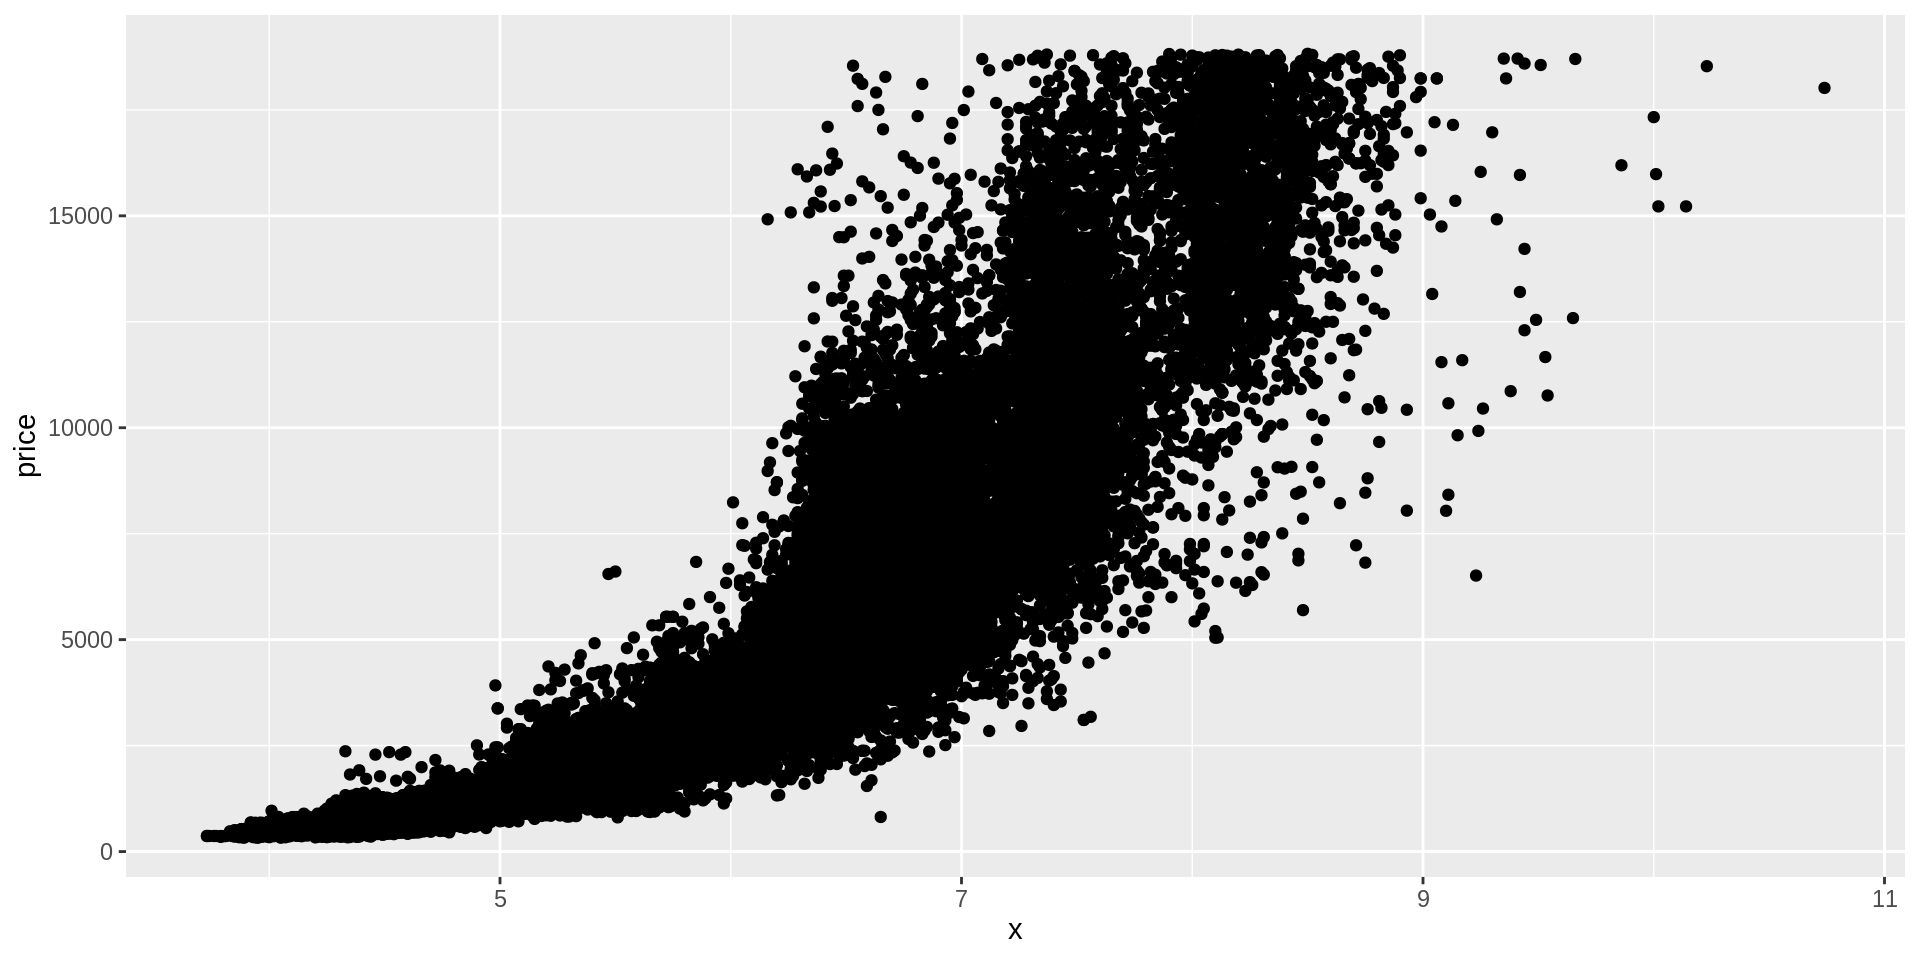
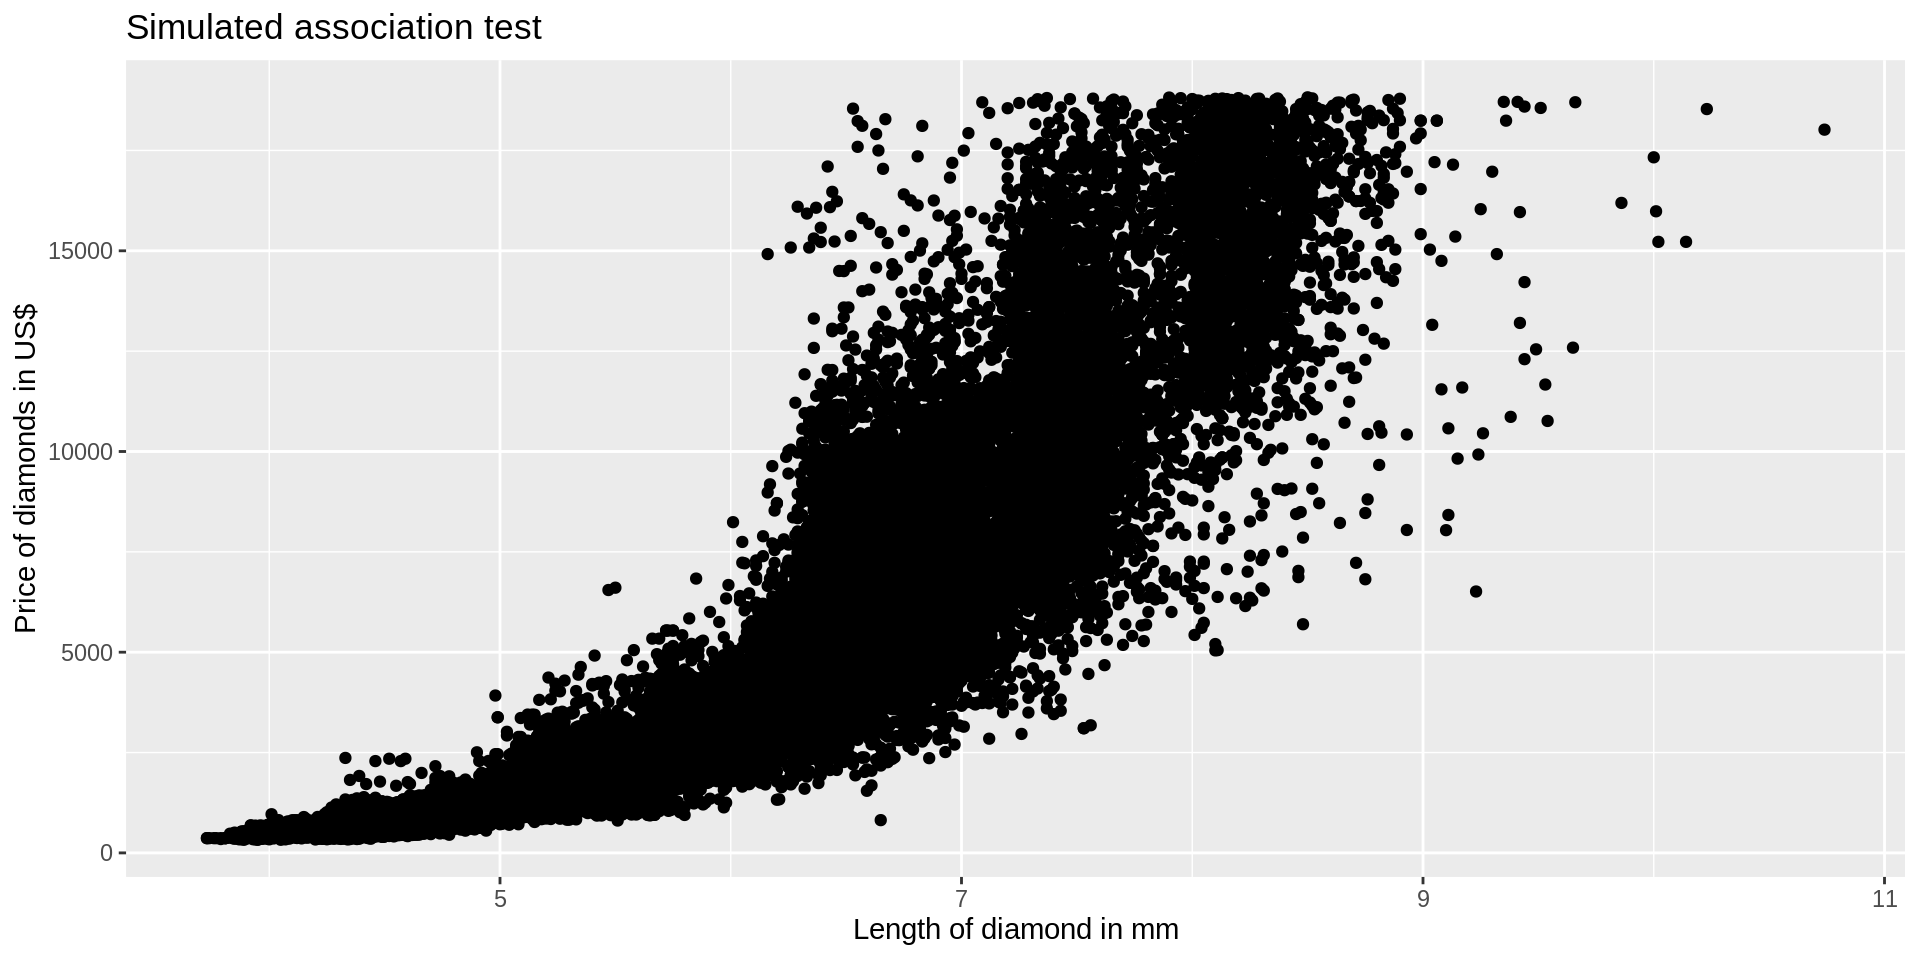
Deploying to gh-pages from @ stats1010-f22/website@56d03d7cbe627913fcf48cd7765b93f8cb9fd4b2 🚀

diff --git a/slides/lect_08.html b/slides/lect_08.html
@@ -27,6 +27,70 @@
       margin: 0 0.8em 0.2em -1.6em;
       vertical-align: middle;
     }
+    pre > code.sourceCode { white-space: pre; position: relative; }
+    pre > code.sourceCode > span { display: inline-block; line-height: 1.25; }
+    pre > code.sourceCode > span:empty { height: 1.2em; }
+    .sourceCode { overflow: visible; }
+    code.sourceCode > span { color: inherit; text-decoration: inherit; }
+    div.sourceCode { margin: 1em 0; }
+    pre.sourceCode { margin: 0; }
+    @media screen {
+    div.sourceCode { overflow: auto; }
+    }
+    @media print {
+    pre > code.sourceCode { white-space: pre-wrap; }
+    pre > code.sourceCode > span { text-indent: -5em; padding-left: 5em; }
+    }
+    pre.numberSource code
+      { counter-reset: source-line 0; }
+    pre.numberSource code > span
+      { position: relative; left: -4em; counter-increment: source-line; }
+    pre.numberSource code > span > a:first-child::before
+      { content: counter(source-line);
+        position: relative; left: -1em; text-align: right; vertical-align: baseline;
+        border: none; display: inline-block;
+        -webkit-touch-callout: none; -webkit-user-select: none;
+        -khtml-user-select: none; -moz-user-select: none;
+        -ms-user-select: none; user-select: none;
+        padding: 0 4px; width: 4em;
+        color: #aaaaaa;
+      }
+    pre.numberSource { margin-left: 3em; border-left: 1px solid #aaaaaa;  padding-left: 4px; }
+    div.sourceCode
+      { color: #003b4f; background-color: #f1f3f5; }
+    @media screen {
+    pre > code.sourceCode > span > a:first-child::before { text-decoration: underline; }
+    }
+    code span { color: #003b4f; } /* Normal */
+    code span.al { color: #ad0000; } /* Alert */
+    code span.an { color: #5e5e5e; } /* Annotation */
+    code span.at { color: #657422; } /* Attribute */
+    code span.bn { color: #ad0000; } /* BaseN */
+    code span.bu { } /* BuiltIn */
+    code span.cf { color: #003b4f; } /* ControlFlow */
+    code span.ch { color: #20794d; } /* Char */
+    code span.cn { color: #8f5902; } /* Constant */
+    code span.co { color: #5e5e5e; } /* Comment */
+    code span.cv { color: #5e5e5e; font-style: italic; } /* CommentVar */
+    code span.do { color: #5e5e5e; font-style: italic; } /* Documentation */
+    code span.dt { color: #ad0000; } /* DataType */
+    code span.dv { color: #ad0000; } /* DecVal */
+    code span.er { color: #ad0000; } /* Error */
+    code span.ex { } /* Extension */
+    code span.fl { color: #ad0000; } /* Float */
+    code span.fu { color: #4758ab; } /* Function */
+    code span.im { color: #00769e; } /* Import */
+    code span.in { color: #5e5e5e; } /* Information */
+    code span.kw { color: #003b4f; } /* Keyword */
+    code span.op { color: #5e5e5e; } /* Operator */
+    code span.ot { color: #003b4f; } /* Other */
+    code span.pp { color: #ad0000; } /* Preprocessor */
+    code span.sc { color: #5e5e5e; } /* SpecialChar */
+    code span.ss { color: #20794d; } /* SpecialString */
+    code span.st { color: #20794d; } /* String */
+    code span.va { color: #111111; } /* Variable */
+    code span.vs { color: #20794d; } /* VerbatimString */
+    code span.wa { color: #5e5e5e; font-style: italic; } /* Warning */
   </style>
   <link rel="stylesheet" href="../site_libs/revealjs/dist/theme/quarto.css" id="theme">
   <link href="../site_libs/revealjs/plugin/quarto-line-highlight/line-highlight.css" rel="stylesheet">
@@ -338,7 +402,8 @@
 <h1>Learning outcomes</h1>
 <p>By the end of this lesson you should:</p>
 <ul>
-<li><p>Know how to read a scatterplot to describe associations between quantitative variables</p></li>
+<li><p>Know how to read a scatterplot to describe associations between quantitative variables and</p></li>
+<li><p>Perform a visual assocation test</p></li>
 <li></li>
 </ul>
 </section>
@@ -370,7 +435,7 @@
 <h1>Plots</h1>
 <aside class="notes">
 <p>Remind them about plots of proportions that we did for titanic and comics data.</p>
-<p>Which variable goes on the y axis?</p>
+<p>Which variable goes on the y axis? Which on the x axis</p>
 <p>Is there an association or not?</p>
 <style type="text/css">
         span.MJX_Assistive_MathML {
@@ -396,28 +461,52 @@
 <li class="fragment">explanatory</li>
 </ul></li>
 </ul>
-<div class="cell">
-<div class="cell-output-display">
-<p><img data-src="lect_08_files/figure-revealjs/scatterplot-1.png" width="960"></p>
-</div>
-</div>
 </div>
 </section>
 
-<section id="visual-test" class="title-slide slide level1 center">
-<h1>Visual test</h1>
+<section id="price-vs-x" class="title-slide slide level1 center">
+<h1>Price vs <span class="math inline">\(x\)</span></h1>
+
+<img data-src="lect_08_files/figure-revealjs/scatterplot-1.png" width="960" class="r-stretch"></section>
+
+<section id="visual-association-test" class="title-slide slide level1 center">
+<h1>Visual association test</h1>
+<aside class="notes">
+<p>Ask them to run the coding in RStudio and see what they get - can connect some of their computers to the big screen</p>
+<p>Ask them if they can see a difference between their plots and the real plot</p>
+<style type="text/css">
+        span.MJX_Assistive_MathML {
+          position:absolute!important;
+          clip: rect(1px, 1px, 1px, 1px);
+          padding: 1px 0 0 0!important;
+          border: 0!important;
+          height: 1px!important;
+          width: 1px!important;
+          overflow: hidden!important;
+          display:block!important;
+      }</style></aside>
 <div class="columns">
 <div class="column" style="width:50%;">
 <div class="cell">
 <div class="cell-output-display column-page-left">
-<p><img data-src="lect_08_files/figure-revealjs/pdf-add-run-1.png" width="960"></p>
+<p><img data-src="lect_08_files/figure-revealjs/association_test_run-1.png" width="960"></p>
 </div>
 </div>
 </div><div class="column" style="width:50%;">
-<div class="cell">
-<div class="cell-output-display column-page-right">
-<p><img data-src="lect_08_files/figure-revealjs/pdf-no_add-1.png" width="960"></p>
-</div>
+<div class="cell column-page-right">
+<div class="sourceCode cell-code" id="cb1"><pre class="sourceCode numberSource r number-lines code-with-copy"><code class="sourceCode r"><span id="cb1-1"><a href="#cb1-1"></a>diamonds_filtered <span class="ot">&lt;-</span> <span class="co"># naming the filtered data</span></span>
+<span id="cb1-2"><a href="#cb1-2"></a>  diamonds <span class="sc">%&gt;%</span>  <span class="co"># diamonds data</span></span>
+<span id="cb1-3"><a href="#cb1-3"></a>  <span class="fu">filter</span>(x <span class="sc">&gt;</span> <span class="dv">0</span>) <span class="co"># x positive</span></span>
+<span id="cb1-4"><a href="#cb1-4"></a></span>
+<span id="cb1-5"><a href="#cb1-5"></a>diamonds_filtered <span class="sc">%&gt;%</span> <span class="co"># filtered data</span></span>
+<span id="cb1-6"><a href="#cb1-6"></a>  <span class="fu">slice_sample</span>(<span class="at">n =</span> <span class="fu">nrow</span>(.)) <span class="sc">%&gt;%</span> <span class="co"># random sample rows</span></span>
+<span id="cb1-7"><a href="#cb1-7"></a>  <span class="fu">pull</span>(x) <span class="sc">%&gt;%</span> <span class="co"># take out the variable x</span></span>
+<span id="cb1-8"><a href="#cb1-8"></a>  <span class="fu">bind_cols</span>(., diamonds_filtered<span class="sc">$</span>price) <span class="sc">%&gt;%</span> <span class="co"># price in the same order</span></span>
+<span id="cb1-9"><a href="#cb1-9"></a>  <span class="fu">ggplot</span>() <span class="sc">+</span> <span class="co"># into ggplot</span></span>
+<span id="cb1-10"><a href="#cb1-10"></a>  <span class="fu">geom_point</span>(<span class="fu">aes</span>(<span class="at">y =</span> ...<span class="dv">2</span>, <span class="at">x =</span> ...<span class="dv">1</span>)) <span class="sc">+</span> <span class="co"># using the new names</span></span>
+<span id="cb1-11"><a href="#cb1-11"></a>  <span class="fu">labs</span>(<span class="at">title =</span> <span class="st">"Simulated association test"</span>, </span>
+<span id="cb1-12"><a href="#cb1-12"></a>       <span class="at">x =</span> <span class="st">"Length of diamond in mm"</span>, </span>
+<span id="cb1-13"><a href="#cb1-13"></a>       <span class="at">y =</span> <span class="st">"Price of diamonds in US$"</span>)</span></code><button title="Copy to Clipboard" class="code-copy-button"><i class="bi"></i></button></pre></div>
 </div>
 </div>
 </div>

diff --git a/slides/lec-1.html b/slides/lec-1.html
@@ -720,7 +720,7 @@
 'autoAnimateDuration': 1,
 'autoAnimateUnmatched': true,
 'menu': {"side":"left","useTextContentForMissingTitles":true,"markers":false,"loadIcons":false,"custom":[{"title":"Tools","icon":"<i class=\"fas fa-gear\"></i>","content":"<ul class=\"slide-menu-items\">\n<li class=\"slide-tool-item active\" data-item=\"0\"><a href=\"#\" onclick=\"RevealMenuToolHandlers.fullscreen(event)\"><kbd>f</kbd> Fullscreen</a></li>\n<li class=\"slide-tool-item\" data-item=\"1\"><a href=\"#\" onclick=\"RevealMenuToolHandlers.speakerMode(event)\"><kbd>s</kbd> Speaker View</a></li>\n<li class=\"slide-tool-item\" data-item=\"2\"><a href=\"#\" onclick=\"RevealMenuToolHandlers.overview(event)\"><kbd>o</kbd> Slide Overview</a></li>\n<li class=\"slide-tool-item\" data-item=\"3\"><a href=\"#\" onclick=\"RevealMenuToolHandlers.overview(event)\"><kbd>e</kbd> PDF Export Mode</a></li>\n<li class=\"slide-tool-item\" data-item=\"4\"><a href=\"#\" onclick=\"RevealMenuToolHandlers.keyboardHelp(event)\"><kbd>?</kbd> Keyboard Help</a></li>\n</ul>"}],"openButton":true},
-'multiplex': {"secret":null,"id":"2f46ac03c1c1174f","url":"https://reveal-multiplex.glitch.me/"},
+'multiplex': {"secret":null,"id":"6abe845624755ada","url":"https://reveal-multiplex.glitch.me/"},
 'smaller': false,
  
         // Display controls in the bottom right corner
